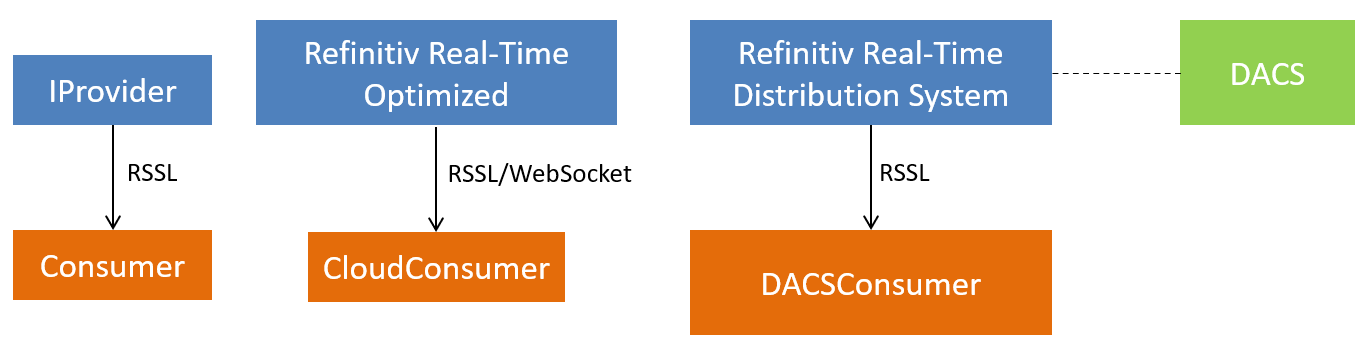
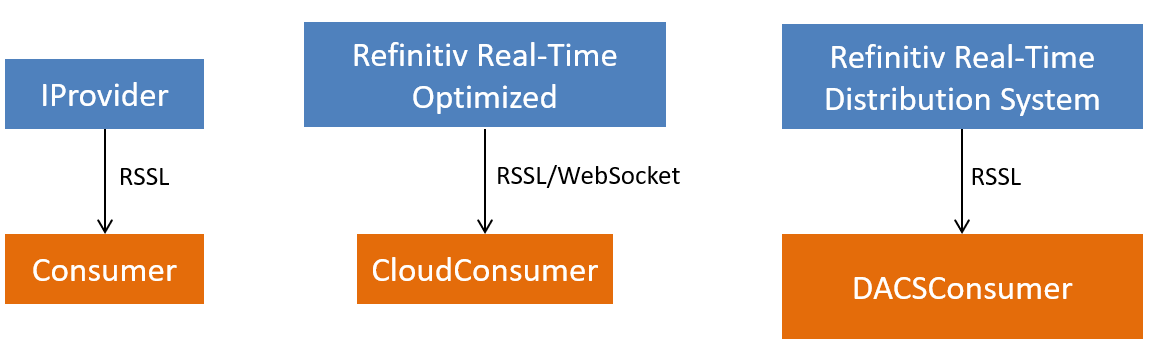
update diagram and DACS information

diff --git a/README.md b/README.md
@@ -177,7 +177,7 @@ If the project requires the local jar file that not yet part of the public [Mave
 mvn install:install-file -Dfile=<path-to-file> -DgroupId=<group-id> -DartifactId=<artifact-id> -Dversion=<version> -Dpackaging=<packaging>
 ```
 
-This project uses [Refinitiv Robust Foundation API (RFA) - Java](https://developers.refinitiv.com/en/api-catalog/thomson-reuters-enterprise-platform/robust-foundation-api-rfa-java) as an example non-Maven jar file. The *DACSConsumer* example application consumes real-time data from Refinitiv Real-Time Distribution Server and then uses ```com.reuters.rfa.dacs``` package to extract the Permission information from incoming data.
+This project uses [Refinitiv Robust Foundation API (RFA) - Java](https://developers.refinitiv.com/en/api-catalog/thomson-reuters-enterprise-platform/robust-foundation-api-rfa-java) as an example non-Maven jar file. The *DACSConsumer* example application consumes real-time data from Refinitiv Real-Time Distribution Server and then uses the DACS Lock API in ```com.reuters.rfa.dacs``` package to extract the Permission information such as the service id and the list of PEs from incoming data.
 
 ํYou can install the *rfa.jar* file to the local Maven repository with the following command
 
